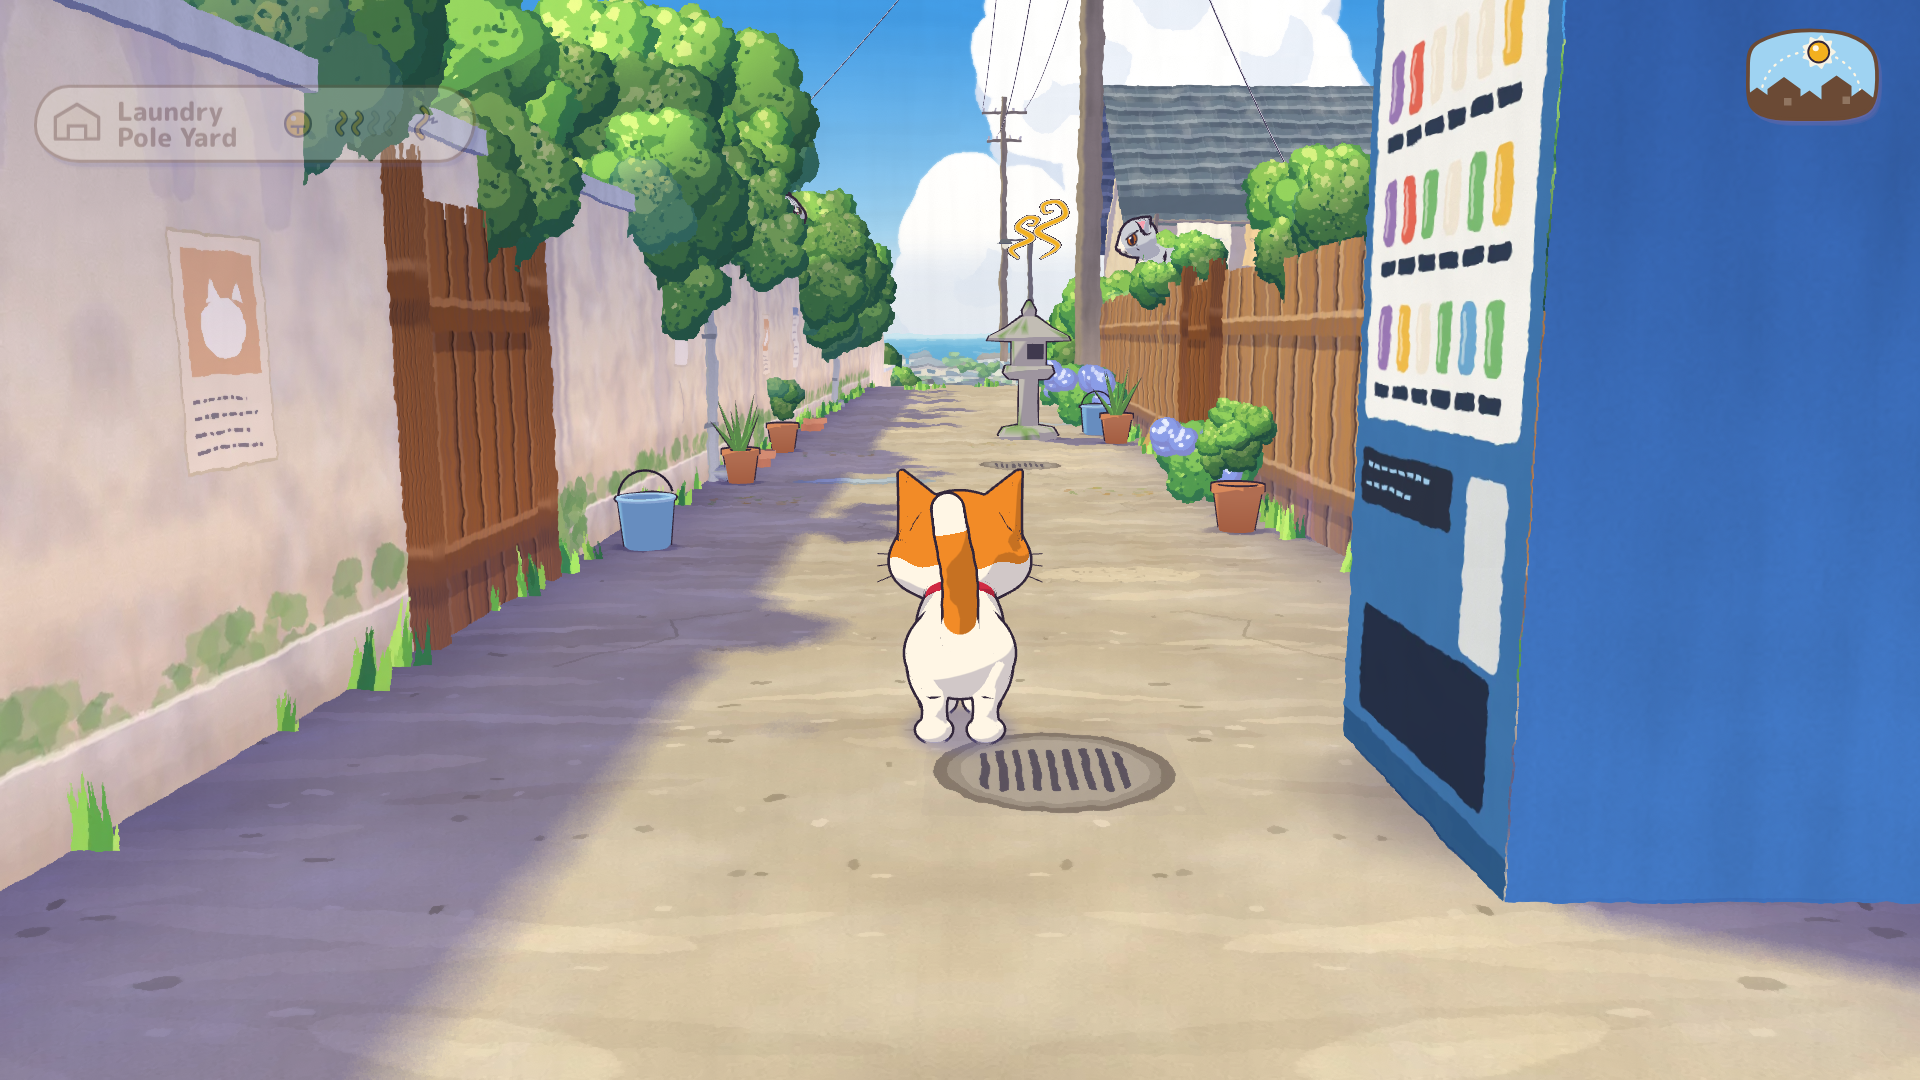
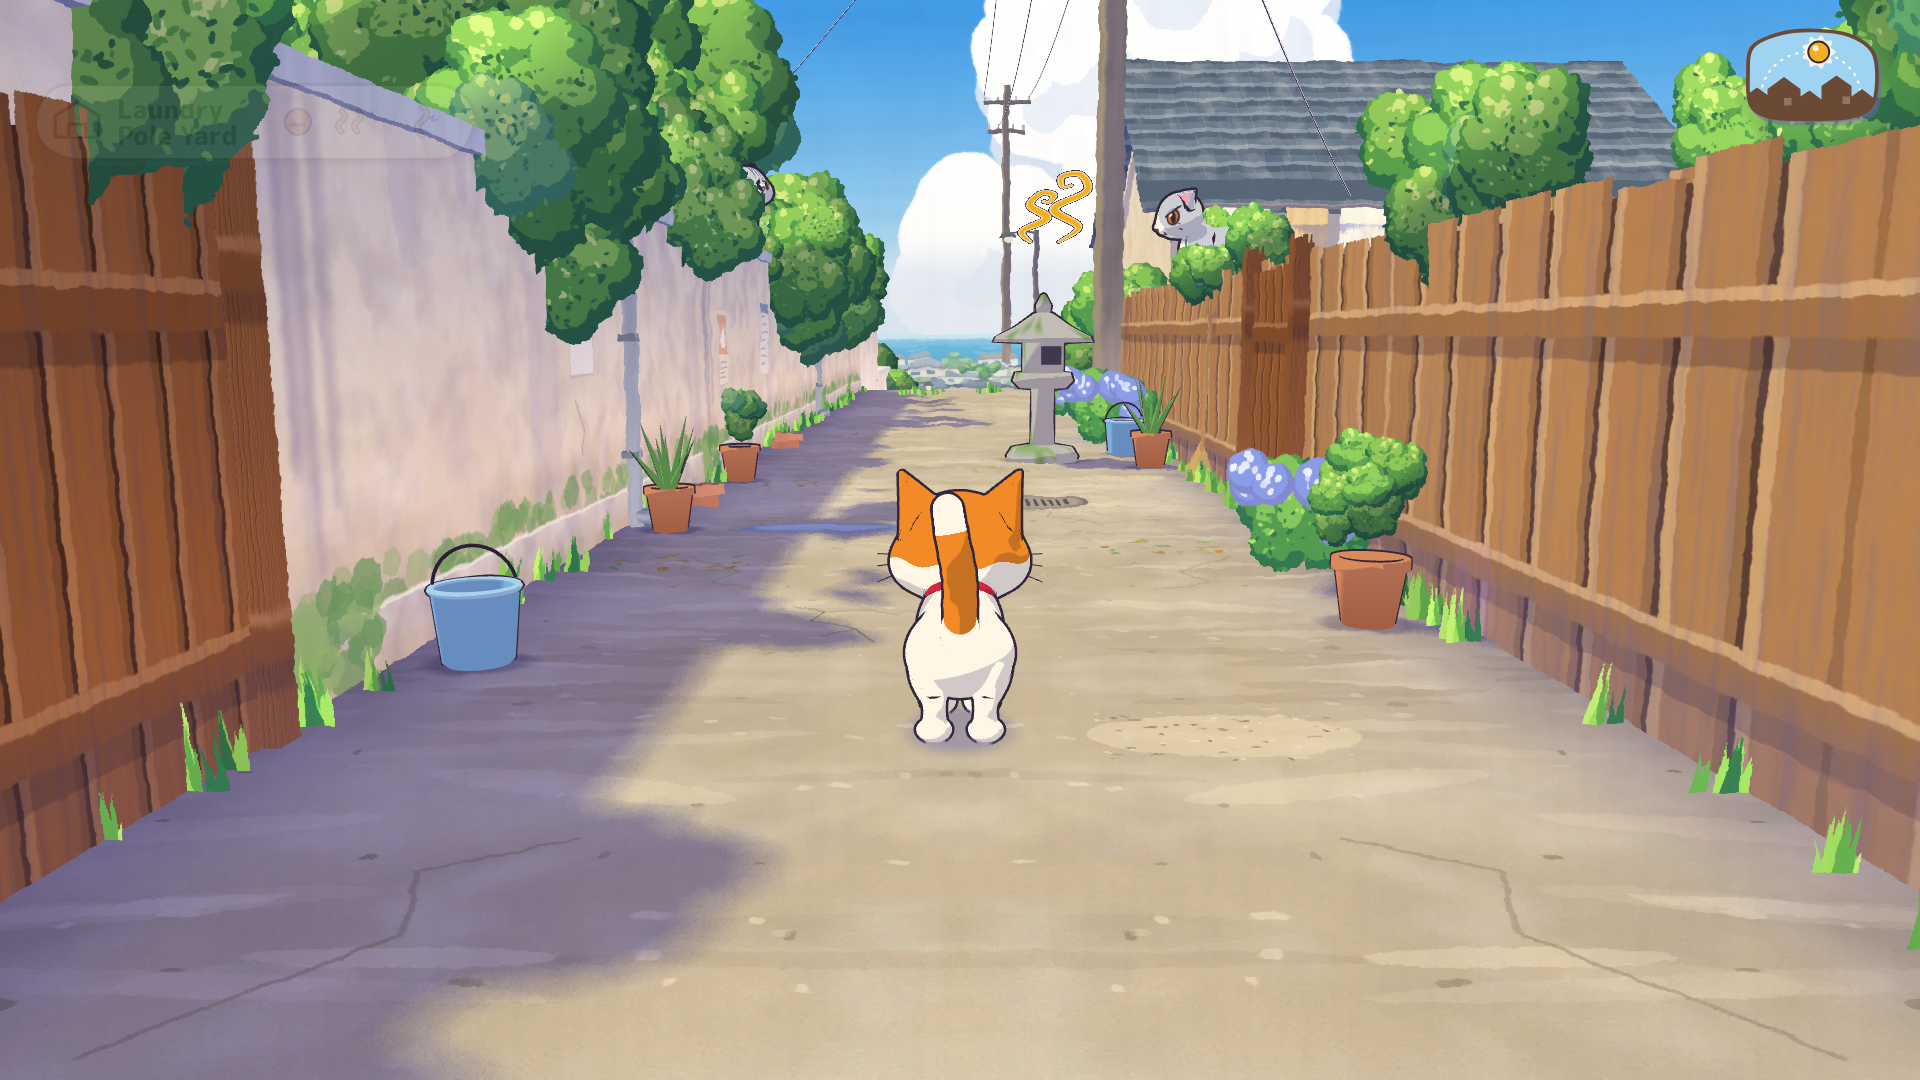
wip(M2): lane in progress
Claude-Session: https://claude.ai/code/session_01K9BzCtu5ca2nRxDXecreHZ

diff --git a/prototypes/artifact-slice/README.md b/prototypes/artifact-slice/README.md
@@ -56,6 +56,21 @@ phase-1 end, Final KO) and the smoke bots on
 3 seeds. The second prints fight lengths per scenario (skilled, median-policy, scripted-Daifuku and passive bots)
 against the GDD's F9 figures and exits non-zero if a bot misses its expectation (`--only <id>`, `--json out.json`).
 
+## Lane, exploration and territory (M2, world side)
+
+The default page is now ≈ 120 m of Hidamari Lane grown around the approved M0 corner (`src/world/lane-m2.js`):
+Haru's garden wall (the wall blend) and Low Wall Corner uphill, Persimmon Alley, Laundry Pole Yard (the M0 corner,
+High Perch, yard stop), the Den wall with Daifuku within 10 m of the perch, and the stepped slope down to Tofu Shop Step.
+Territory rules come only from the simulation (`src/sim/territory/`, `API.md`) through `src/world/territory.js`;
+`src/render/scent.js` draws wisps, pops, Rub Marks, trails, the compass ring and the Head Home thread;
+`src/ui/street-hud.js` is the street HUD; `src/camera/rig.js` `ExploreRig` is the Explore camera.
+
+Controls: WASD (Shift run), drag or double-click to look (1:1), Space hop onto walls / off the ribbon, E spray / rub /
+nap / pick up (hold), Tab Whisker Sense, H Head Home thread, N nap to Dusk, 1 / 2 Day / Dusk.
+Params: `?start=showcase_l2d2|l1d1`, `?seed=N`, `?vantage=0..5`, `?sense=1`, `?fps=1` (frame-time overlay;
+`__frameLog()` for the real-laptop log), `?hud=0|1`. Evidence: `node tools/m2-shots.mjs`
+(writes to `production/qa/evidence/artifact-slice/M2/`).
+
 ## Status
 
 - **M0 look-dev:** concluded on the studio side — three review iterations (art + creative director): final
